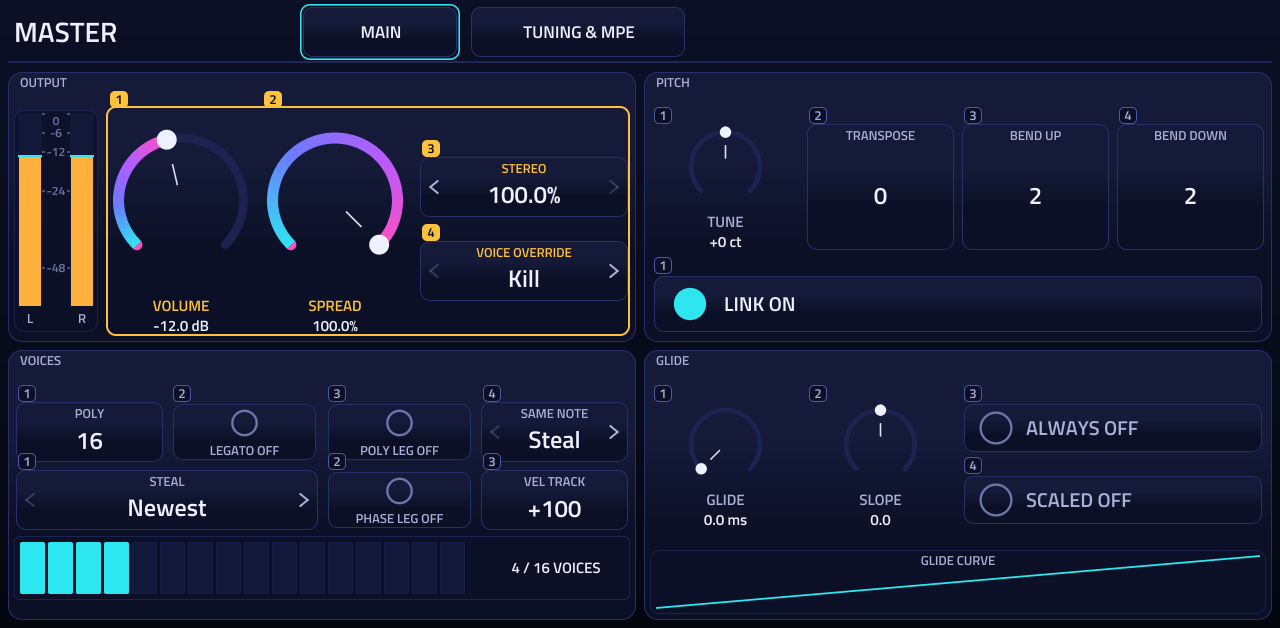
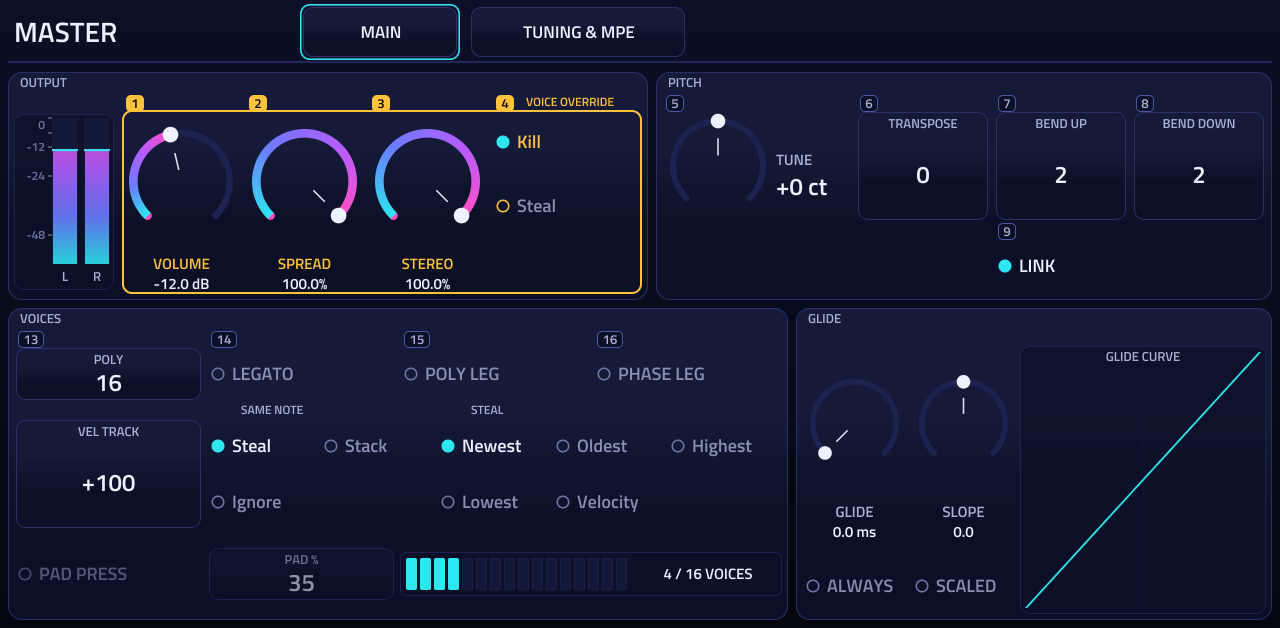
User guide: Master and Voice chapters (re-flowed Master, LED lists, pad pressure controls)

diff --git a/docs/user-guide/SynthyBoy-MPC-User-Guide.md b/docs/user-guide/SynthyBoy-MPC-User-Guide.md
@@ -687,56 +687,63 @@ The picture shows the BACK card, the three effects of the band (FX Filter select
 
 ![Master main](img/master-main.png)
 
-Two sides, chosen by the buttons **MAIN** and **TUNING & MPE** at the top.
+Two sides, chosen by the buttons **MAIN** and **TUNING & MPE** at the top. The picture is rendered for a 16-knob device: all ten Q groups of the page (four on the first row, two on the second...) get their numbers. On the Key 61 the idle groups show 1 - 4 and the Q-Link button steps to them.
 
 **MAIN side** (four blocks):
 
 | Block | Control | Parameter, range |
 |---|---|---|
-| OUTPUT | meters L / R (the engine's master peak, with hold line) | |
+| OUTPUT | meters L / R (the engine's master peak, with hold line, a dB scale in its own column and the colour ramp) | |
 | | VOLUME | Master Volume -60 .. +6 dB, default -12 |
 | | SPREAD | Stereo Spread 0 .. 100 percent, default 100 |
-| | STEREO | Stereo Routing 0 .. 100 percent, default 100 |
-| | VOICE OVERRIDE | Kill / Steal |
+| | STEREO | Stereo Routing 0 .. 100 percent, default 100 (a knob like the other two) |
+| | VOICE OVERRIDE | a LED list: Kill / Steal |
 | PITCH | TUNE | -100 .. +100 cents |
 | | TRANSPOSE | -48 .. +48 semitones |
-| | BEND UP, BEND DOWN | 0 .. 24 semitones, default 2; **LINK ON** makes the down range follow the up range |
-| VOICES | POLY | Polyphony 1 .. 32, default 16 |
-| | LEGATO, POLY LEG, PHASE LEG | switches (Master Legato, Master Poly Legato, Voice Phase Legato) |
-| | SAME NOTE | Steal, Stack, Ignore |
-| | STEAL | Newest, Oldest, Highest, Lowest, Velocity |
+| | BEND UP, BEND DOWN | 0 .. 24 semitones, default 2; the **LINK** LED switch makes the down range follow the up range |
+| VOICES | POLY | Polyphony 1 .. 32, default 16 (see the note below) |
+| | LEGATO, POLY LEG, PHASE LEG | LED switches (Master Legato, Master Poly Legato, Voice Phase Legato) |
 | | VEL TRACK | -100 .. +100 percent, default 100 |
-| | voice bar | sounding voices / polyphony |
+| | SAME NOTE | a LED list: Steal, Stack, Ignore |
+| | STEAL | a LED list: Newest, Oldest, Highest, Lowest, Velocity |
+| | PAD PRESS, PAD % | the plugin-wide pad-pressure switch and its amount (default off, 35 percent; see below). PAD % is dim while the switch is off |
+| | voice bar | sounding voices / polyphony, for example "4 / 16 VOICES" |
 | GLIDE | GLIDE | Portamento Time 0 .. 8000 ms |
-| | SLOPE | -8 .. +8; the glide curve is drawn below |
-| | ALWAYS | Portamento Always, Off/On |
-| | SCALED | Portamento Scaled By Interval, Off/On |
+| | SLOPE | -8 .. +8; the glide curve is drawn at the right |
+| | ALWAYS | Portamento Always, a LED switch |
+| | SCALED | Portamento Scaled By Interval, a LED switch |
 
-Q groups: OUTPUT (VOLUME, SPREAD, STEREO, VOICE OVERRIDE), PITCH, VOICES (POLY ... SAME NOTE) and the second VOICES row, GLIDE.
+**POLY and the device.** The page lets you set up to 32 voices, but the number you really get is capped by the device: **8 on the Key 61, 16 on the XL** (chapter 7.1). A preset saved with more simply plays with the device's number.
+
+Q groups (in reading order): OUTPUT (VOLUME, SPREAD, STEREO, VOICE OVERRIDE), PITCH (TUNE, TRANSPOSE, BEND UP, BEND DOWN), LINK, VOICES (POLY, LEGATO, POLY LEG, PHASE LEG), the second row of VOICES (VEL TRACK, SAME NOTE, STEAL), GLIDE.
 
 ![Master tuning and MPE](img/master-tuning.png)
 
 **TUNING & MPE side:**
 
-- **SCALE:** SCALE (Chromatic (off), Major, Natural Minor, Harmonic Minor, Melodic Minor, Dorian, Phrygian, Lydian, Mixolydian, Locrian, Major Pentatonic, Minor Pentatonic, Blues, Whole Tone, Diminished (H-W), Diminished (W-H), Phrygian Dominant, Hungarian Minor, Double Harmonic, Hirajoshi), KEY (C ... B; the keyboard drawing below sets the key when you tap or drag a key), MODE (Conform, Mark only). The keyboard shows the notes of the scale.
-- **TUNING:** A4 HZ (400 .. 480 Hz, default 440), TUNING (12-TET, Pythagorean, Just intonation, User file), MTS-ESP switch, NOTE-ON switch (MTS-ESP note-on only).
-- **MPE:** MPE on/off, MPE BEND (1 .. 96 semitones, default 48), XYZ MACRO (Off, XYZ -> Macro 1, 2, 3, YZ -> Macro 1, 2), Y TO WHEEL, BEND TO X, Y BIPOLAR (switches).
+- **SCALE:** SCALE (Chromatic (off), Major, Natural Minor, Harmonic Minor, Melodic Minor, Dorian, Phrygian, Lydian, Mixolydian, Locrian, Major Pentatonic, Minor Pentatonic, Blues, Whole Tone, Diminished (H-W), Diminished (W-H), Phrygian Dominant, Hungarian Minor, Double Harmonic, Hirajoshi), KEY (C ... B; the keyboard drawing below sets the key when you tap or drag a key), MODE (a LED list: Conform, Mark only). The dark keyboard shows the notes of the scale (white keys C to B, the notes of the scale brighter); the title over it reads "ALL 12 NOTES" while the scale is off.
+- **TUNING:** A4 HZ (400 .. 480 Hz, default 440), TUNING (a LED list: 12-TET, Pythagorean, Just intonation, User file), MTS-ESP switch, NOTE-ON switch (MTS-ESP note-on only).
+- **MPE:** MPE on/off, MPE BEND (1 .. 96 semitones, default 48), XYZ TO MACROS (a LED list: Off, XYZ, YZ; XYZ moves Macro 1, 2, 3 and YZ Macro 1, 2), Y TO WHEEL, BEND TO X, Y BIPOLAR (LED switches).
 
-**Pad pressure (MPC XL pads).** The XL pads send a pressure value for each held pad. A preset uses it through the modulation matrix: a route from the source **Poly Aftertouch** to a parameter, for example Filter 1 Cutoff (the preset "MPE Pressure Lead" does this). The plugin also has a plugin-wide pad-pressure switch for the Filter 1 cutoff; it is **off** by default. For any pad pressure to arrive, the pad's **Full Level must be off** (with Full Level on every hit has velocity 127 and sends no pressure). Only per-pad (polyphonic) pressure counts; channel aftertouch is ignored by that switch.
+**Pad pressure (MPC XL pads).** The XL pads send a pressure value for each held pad. There are two ways to use it.
+- **In a preset:** a modulation route from the source **Poly Aftertouch** to a parameter, for example Filter 1 Cutoff. Many factory presets carry this route (chapter 10.4).
+- **For every sound:** the **PAD PRESS** switch (VOICES block of this page, default off) lets the pressure open Filter 1, and **PAD %** (default 35) sets how far: a full pressure at 35 percent opens the cutoff by about one octave, at 100 percent by about three. A voice whose preset already has the route from Poly Aftertouch to Filter 1 Cutoff is not opened twice. The switch and the amount belong to the plugin, not to a preset: a preset change leaves them alone, and the project remembers them.
+
+For any pad pressure to arrive, the pad's **Full Level must be off** (with Full Level on every hit has velocity 127 and sends no pressure). Only per-pad (polyphonic) pressure counts; channel aftertouch is ignored by PAD PRESS.
 
 ### 5.13 Voice control
 
 ![Voice control](img/voice.png)
 
-A sequencer of per-voice offsets: eight steps and six rows.
+A sequencer of per-voice offsets: eight steps and six rows. Every new note takes the next step, so a chord or a run of notes gets slightly different pan, tuning, filter or envelope times for each voice. It is what makes a pad or a unison sound alive instead of identical copies.
 
-- **Header** (Q group STEP): STEP (1 .. 8: which step the Q-Link edits), ROW (PAN, DETUNE, CUTOFF, ENV, MOD 1, MOD 2), LENGTH (1 .. 8 steps), and the value of the selected step in that row.
-- **Grid:** the row buttons on the left choose the row. Touching a column sets that step to the height of your finger; dragging across columns draws through them (fast strokes fill the columns between). The middle line is zero. The step a sounding voice plays is lit (cyan, with a dot).
+- **Header** (Q group STEP): **STEP** (a stepper, 1 .. 8: which step the Q-Link edits), **ROW** (a LED list at the left of the grid: PAN, DETUNE, CUTOFF, ENV, MOD 1, MOD 2; it is Q 2), **LENGTH** (1 .. 8 steps) and the value of the selected step in that row (here PAN, MID).
+- **Grid:** eight columns. Touching a column sets that step to the height of your finger; dragging across columns draws through them (fast strokes fill the columns between). The middle line is zero (MID). The step a sounding voice plays is lit (cyan, with a dot). The picture shows steps 3 and 4 lit.
   Ranges: PAN -100 .. +100 percent, DETUNE -100 .. +100 cents, CUTOFF -100 .. +100 percent, ENV (envelope time) -100 .. +100 percent, MOD 1 and MOD 2 -100 .. +100 percent.
 - **Strip** under the grid: all six values of the selected step (STEP n: PAN, DETUNE, CUTOFF, ENV, MOD 1, MOD 2).
-- **RANDOM:** PAN 0 .. 100 percent, DETUNE 0 .. 100 cents, CUTOFF 0 .. 100 percent, ENV 0 .. 100 percent, and a switch **10x DETUNE**.
-- **SCALING:** ENV TIME and LFO TIME 25 .. 400 percent (default 100), LFO TIME MODE (Percent / Rate).
-- **TARGETS:** switches OSC A, OSC B, OSC C, SUB, NOISE (all on by default): which sound sources the voice control acts on.
+- **RANDOM:** PAN 0 .. 100 percent, DETUNE 0 .. 100 cents, CUTOFF 0 .. 100 percent, ENV 0 .. 100 percent, and a LED switch **10x DETUNE**.
+- **SCALING:** ENV TIME and LFO TIME 25 .. 400 percent (default 100), LFO TIME MODE (a LED list: Percent, Rate).
+- **TARGETS:** LED switches OSC A, OSC B, OSC C, SUB, NOISE (all on by default): which sound sources the voice control acts on.
 - Q groups: STEP, RANDOM, 10x DETUNE, SCALING, TARGETS, NOISE.
 
 **How the steps are used.** Every new note takes the next step, and the sequence goes round after LENGTH steps (note 1 plays step 1, note 2 step 2 ... note LENGTH+1 step 1 again). A chord takes one step per note. The count is not reset by a new chord or by stopping the transport; it starts again from step 1 only when the plugin's audio is started again (for example a project load).
